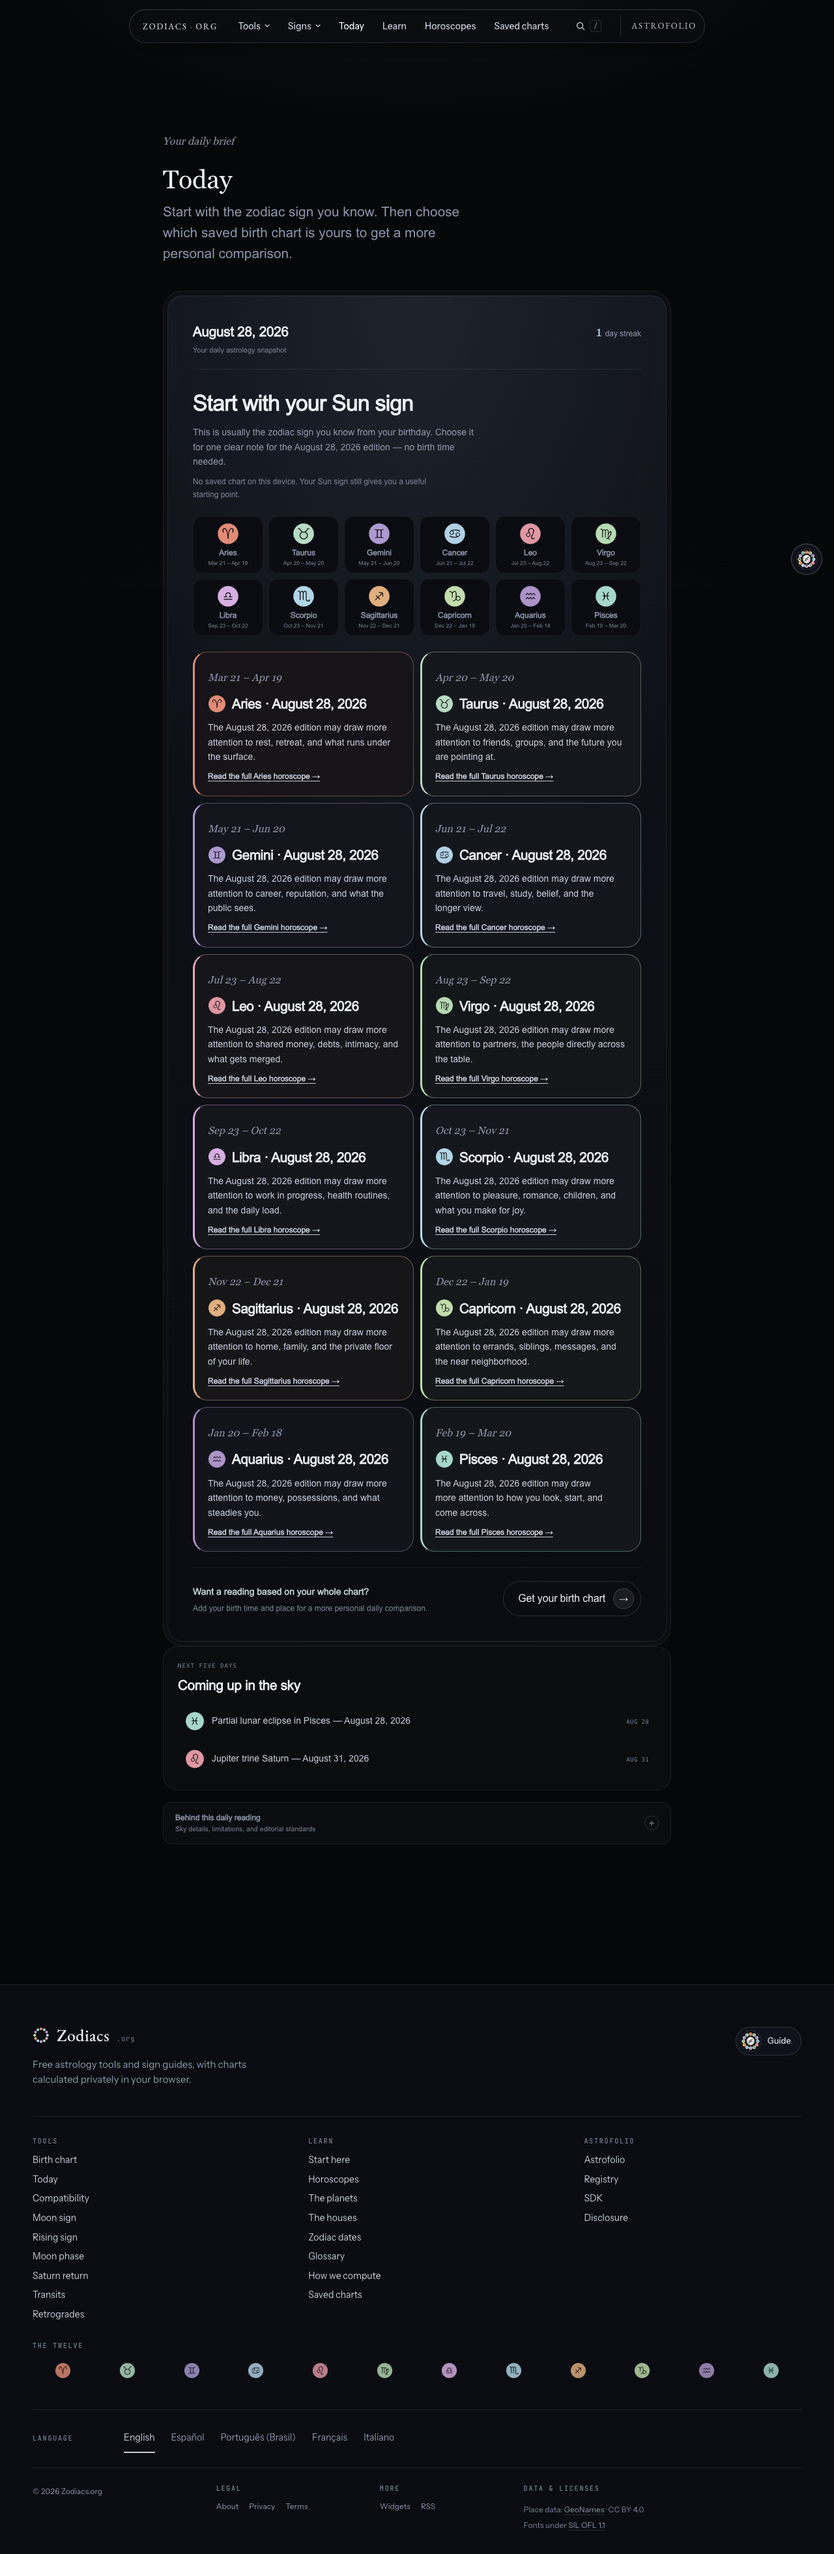
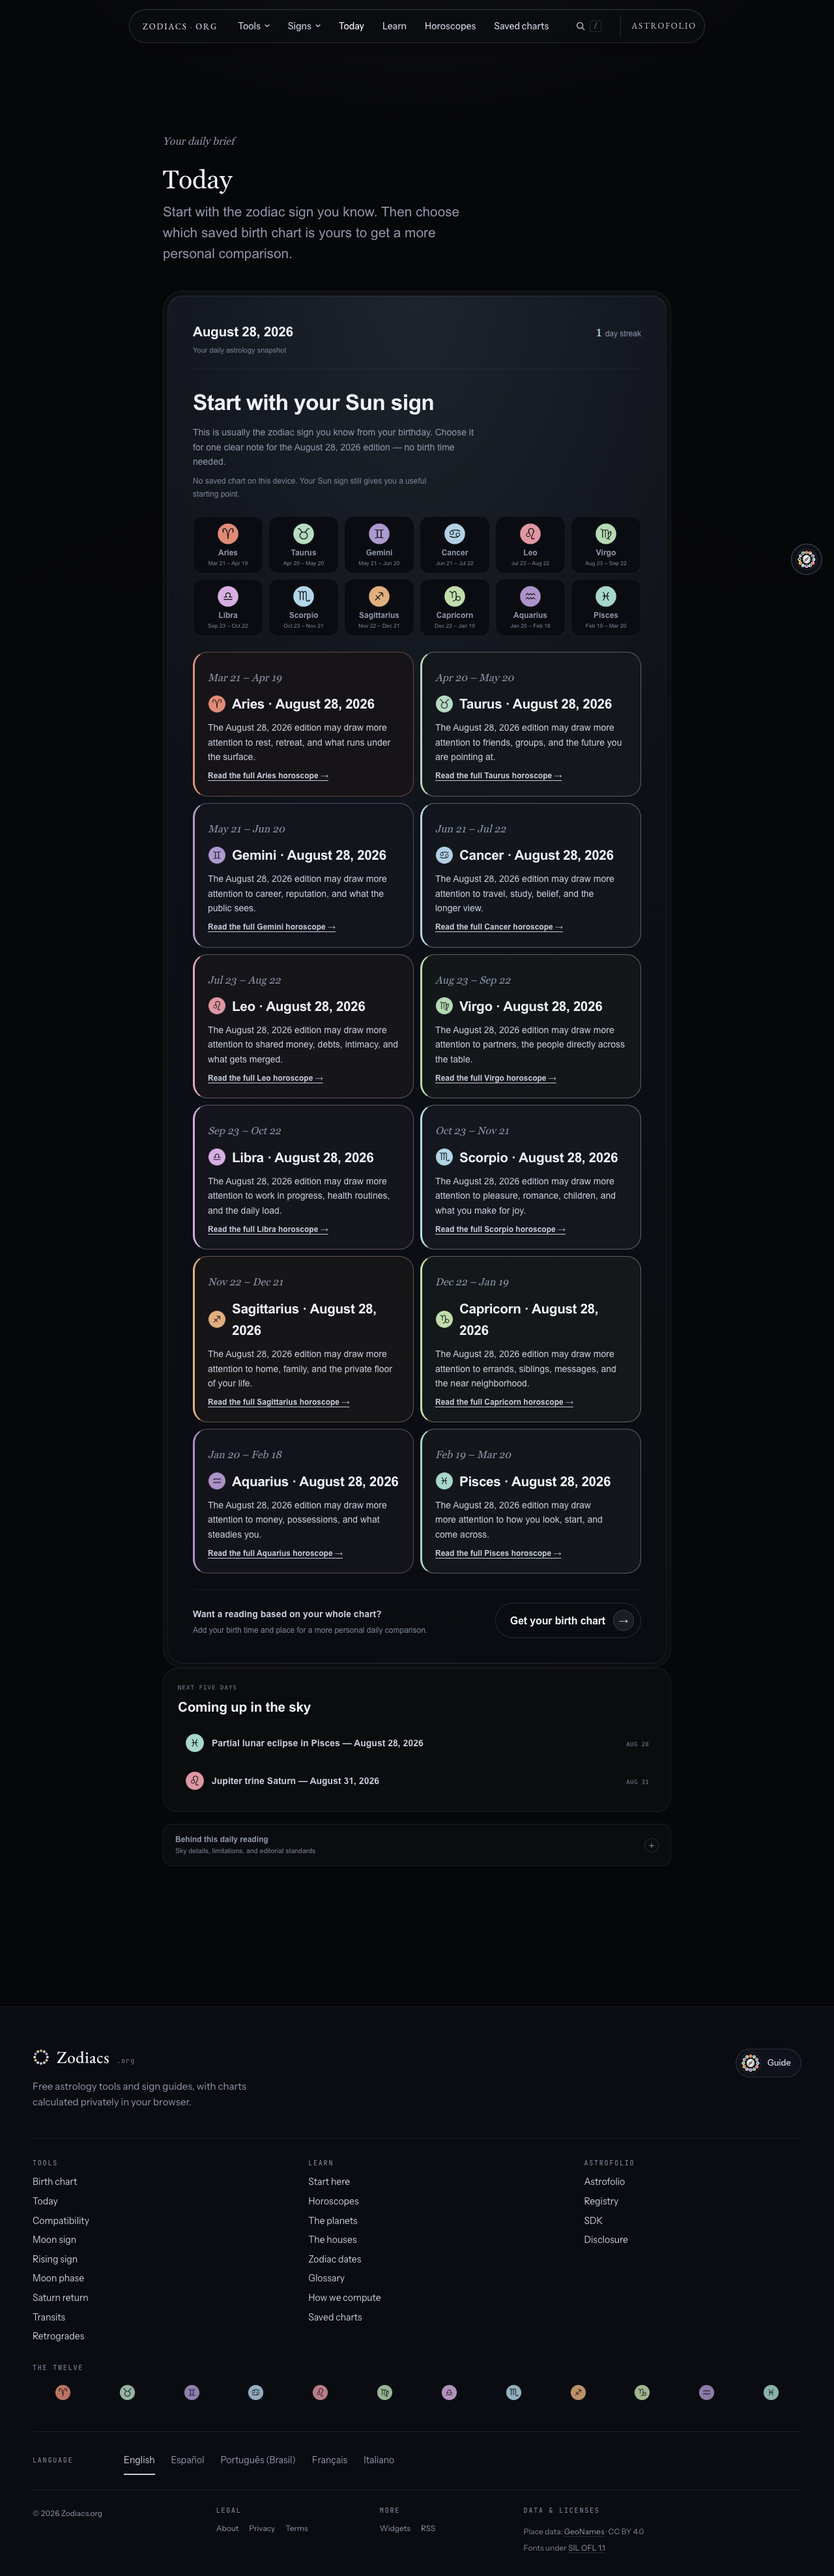
Eliminate Today local-font resolution shift

diff --git a/src/lib/phase1-motion-layout-contract.test.ts b/src/lib/phase1-motion-layout-contract.test.ts
@@ -230,6 +230,11 @@ describe('Phase 1 layout and motion contract', () => {
     expect(today).toMatch(/<Base\s+[\s\S]*?stableChromeTypography/u);
     expect(today).toMatch(/<Base\s+[\s\S]*?minimalNavFontPreloads/u);
     expect(today).toMatch(/<TodayBrief\s+[\s\S]*?client:idle/u);
+    const todayPageRule = today.match(/\.today-page\s*\{([^}]*)\}/u)?.[1] ?? '';
+    expect(todayPageRule).toContain(
+      "font-family: Arial, 'Liberation Sans', system-ui, -apple-system, sans-serif;",
+    );
+    expect(todayPageRule).not.toContain('Fallback');
     for (const phase1Surface of [today, hub, program]) {
       expect(phase1Surface).toMatch(/<Base\s+[\s\S]*?stableTypography/u);
     }
